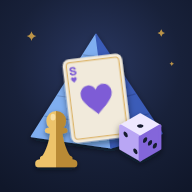
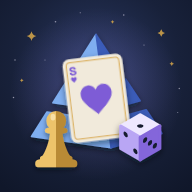
Icona: piramide a tre livelli sospesi, più stelle e un alone di luce
Claude-Session: https://claude.ai/code/session_01HfzGfURkaaPzAZYyJ5YpxD

diff --git a/giochi/segnapunti/index.html b/giochi/segnapunti/index.html
@@ -10,8 +10,8 @@
 <meta name="apple-mobile-web-app-status-bar-style" content="default">
 <meta name="apple-mobile-web-app-title" content="Giochi">
 <link rel="manifest" href="../../manifest.webmanifest">
-<link rel="icon" type="image/png" href="../../icone/icon-192.png?v=2">
-<link rel="apple-touch-icon" href="../../icone/apple-touch-icon.png?v=2">
+<link rel="icon" type="image/png" href="../../icone/icon-192.png?v=3">
+<link rel="apple-touch-icon" href="../../icone/apple-touch-icon.png?v=3">
 <style>:root{color-scheme:light;padding-top:env(safe-area-inset-top,0px);padding-bottom:env(safe-area-inset-bottom,0px)}body{margin:0}img{max-width:100%}[hidden]{display:none!important}</style>
 <title>Segnapunti Prese</title>
 <link rel="preconnect" href="https://fonts.googleapis.com">

diff --git a/giochi/contamonete/index.html b/giochi/contamonete/index.html
@@ -9,8 +9,8 @@
 <meta name="apple-mobile-web-app-status-bar-style" content="black-translucent">
 <meta name="apple-mobile-web-app-title" content="Giochi">
 <link rel="manifest" href="../../manifest.webmanifest">
-<link rel="icon" type="image/png" href="../../icone/icon-192.png?v=2">
-<link rel="apple-touch-icon" href="../../icone/apple-touch-icon.png?v=2">
+<link rel="icon" type="image/png" href="../../icone/icon-192.png?v=3">
+<link rel="apple-touch-icon" href="../../icone/apple-touch-icon.png?v=3">
 <title>Conta Monete</title>
 <link rel="preconnect" href="https://fonts.googleapis.com">
 <link rel="preconnect" href="https://fonts.gstatic.com" crossorigin>

diff --git a/giochi/chiinizia/index.html b/giochi/chiinizia/index.html
@@ -9,8 +9,8 @@
 <meta name="apple-mobile-web-app-status-bar-style" content="black-translucent">
 <meta name="apple-mobile-web-app-title" content="Giochi">
 <link rel="manifest" href="../../manifest.webmanifest">
-<link rel="icon" type="image/png" href="../../icone/icon-192.png?v=2">
-<link rel="apple-touch-icon" href="../../icone/apple-touch-icon.png?v=2">
+<link rel="icon" type="image/png" href="../../icone/icon-192.png?v=3">
+<link rel="apple-touch-icon" href="../../icone/apple-touch-icon.png?v=3">
 <title>Chi inizia</title>
 <link rel="preconnect" href="https://fonts.googleapis.com">
 <link rel="preconnect" href="https://fonts.gstatic.com" crossorigin>

diff --git a/giochi/contapunti/index.html b/giochi/contapunti/index.html
@@ -9,8 +9,8 @@
 <meta name="apple-mobile-web-app-status-bar-style" content="black-translucent">
 <meta name="apple-mobile-web-app-title" content="Giochi">
 <link rel="manifest" href="../../manifest.webmanifest">
-<link rel="icon" type="image/png" href="../../icone/icon-192.png?v=2">
-<link rel="apple-touch-icon" href="../../icone/apple-touch-icon.png?v=2">
+<link rel="icon" type="image/png" href="../../icone/icon-192.png?v=3">
+<link rel="apple-touch-icon" href="../../icone/apple-touch-icon.png?v=3">
 <title>Contapunti</title>
 <link rel="preconnect" href="https://fonts.googleapis.com">
 <link rel="preconnect" href="https://fonts.gstatic.com" crossorigin>

diff --git a/giochi/impostore/index.html b/giochi/impostore/index.html
@@ -9,8 +9,8 @@
 <meta name="apple-mobile-web-app-status-bar-style" content="black-translucent">
 <meta name="apple-mobile-web-app-title" content="Giochi">
 <link rel="manifest" href="../../manifest.webmanifest">
-<link rel="icon" type="image/png" href="../../icone/icon-192.png?v=2">
-<link rel="apple-touch-icon" href="../../icone/apple-touch-icon.png?v=2">
+<link rel="icon" type="image/png" href="../../icone/icon-192.png?v=3">
+<link rel="apple-touch-icon" href="../../icone/apple-touch-icon.png?v=3">
 <title>Impostore</title>
 <link rel="preconnect" href="https://fonts.googleapis.com">
 <link rel="preconnect" href="https://fonts.gstatic.com" crossorigin>

diff --git a/giochi/perudo/index.html b/giochi/perudo/index.html
@@ -9,8 +9,8 @@
 <meta name="apple-mobile-web-app-status-bar-style" content="black-translucent">
 <meta name="apple-mobile-web-app-title" content="Giochi">
 <link rel="manifest" href="../../manifest.webmanifest">
-<link rel="icon" type="image/png" href="../../icone/icon-192.png?v=2">
-<link rel="apple-touch-icon" href="../../icone/apple-touch-icon.png?v=2">
+<link rel="icon" type="image/png" href="../../icone/icon-192.png?v=3">
+<link rel="apple-touch-icon" href="../../icone/apple-touch-icon.png?v=3">
 <title>Perudo</title>
 <link rel="preconnect" href="https://fonts.googleapis.com">
 <link rel="preconnect" href="https://fonts.gstatic.com" crossorigin>

diff --git a/giochi/lupus/index.html b/giochi/lupus/index.html
@@ -9,8 +9,8 @@
 <meta name="apple-mobile-web-app-status-bar-style" content="black-translucent">
 <meta name="apple-mobile-web-app-title" content="Giochi">
 <link rel="manifest" href="../../manifest.webmanifest">
-<link rel="icon" type="image/png" href="../../icone/icon-192.png?v=2">
-<link rel="apple-touch-icon" href="../../icone/apple-touch-icon.png?v=2">
+<link rel="icon" type="image/png" href="../../icone/icon-192.png?v=3">
+<link rel="apple-touch-icon" href="../../icone/apple-touch-icon.png?v=3">
 <title>Lupus</title>
 <link rel="preconnect" href="https://fonts.googleapis.com">
 <link rel="preconnect" href="https://fonts.gstatic.com" crossorigin>

diff --git a/index.html b/index.html
@@ -9,8 +9,8 @@
 <meta name="apple-mobile-web-app-status-bar-style" content="black-translucent">
 <meta name="apple-mobile-web-app-title" content="Giochi">
 <link rel="manifest" href="manifest.webmanifest">
-<link rel="icon" type="image/png" href="icone/icon-192.png?v=2">
-<link rel="apple-touch-icon" href="icone/apple-touch-icon.png?v=2">
+<link rel="icon" type="image/png" href="icone/icon-192.png?v=3">
+<link rel="apple-touch-icon" href="icone/apple-touch-icon.png?v=3">
 <title>Giochi di Simo</title>
 <link rel="preconnect" href="https://fonts.googleapis.com">
 <link rel="preconnect" href="https://fonts.gstatic.com" crossorigin>

diff --git a/giochi/poker/index.html b/giochi/poker/index.html
@@ -8,8 +8,8 @@
 <meta name="mobile-web-app-capable" content="yes">
 <meta name="apple-mobile-web-app-title" content="Giochi">
 <link rel="manifest" href="../../manifest.webmanifest">
-<link rel="icon" type="image/png" href="../../icone/icon-192.png?v=2">
-<link rel="apple-touch-icon" href="../../icone/apple-touch-icon.png?v=2">
+<link rel="icon" type="image/png" href="../../icone/icon-192.png?v=3">
+<link rel="apple-touch-icon" href="../../icone/apple-touch-icon.png?v=3">
 <title>Fiches</title>
 <link rel="preconnect" href="https://fonts.googleapis.com">
 <link rel="preconnect" href="https://fonts.gstatic.com" crossorigin>

diff --git a/giochi/7wonders/index.html b/giochi/7wonders/index.html
@@ -8,8 +8,8 @@
 <meta name="apple-mobile-web-app-title" content="Giochi">
 <meta name="theme-color" content="#161A2C">
 <link rel="manifest" href="../../manifest.webmanifest">
-<link rel="icon" type="image/png" href="../../icone/icon-192.png?v=2">
-<link rel="apple-touch-icon" href="../../icone/apple-touch-icon.png?v=2">
+<link rel="icon" type="image/png" href="../../icone/icon-192.png?v=3">
+<link rel="apple-touch-icon" href="../../icone/apple-touch-icon.png?v=3">
 <title>7 Wonders</title>
 <link rel="preconnect" href="https://fonts.googleapis.com">
 <link rel="preconnect" href="https://fonts.gstatic.com" crossorigin>

diff --git a/CLAUDE.md b/CLAUDE.md
@@ -34,7 +34,7 @@ e vuole che tu faccia **tutto da solo**: modifica, prova, commit e push. Lui non
 | `giochi/<nome>/index.html` | Una pagina per gioco, autonoma (HTML, CSS e JS nello stesso file). |
 | `giochi/impostore/parole.js` | **Parole di Impostore**, divise in pacchetti. |
 | `giochi/lupus/ruoli.js` | **Ruoli di Lupus**. |
-| `icone/icona.svg` | **Icona dell'app** (asso di cuori con la S, pedone, piramide, dado). I PNG si rigenerano con `PLAYWRIGHT_BROWSERS_PATH=/opt/pw-browsers node icone/genera.js`; se cambi l'icona, alza anche il `?v=` nei link `icone/…` delle pagine e del manifest. |
+| `icone/icona.svg` | **Icona dell'app** (asso di cuori con la S, pedone, piramide a tre livelli sospesi, dado, stelle). I PNG si rigenerano con `PLAYWRIGHT_BROWSERS_PATH=/opt/pw-browsers node icone/genera.js`; se cambi l'icona, alza anche il `?v=` nei link `icone/…` delle pagine e del manifest. |
 
 Categorie in `giochi.js`:
 - `carte` (Dichiarare, Pegno, Tresette, Conta Monete);
